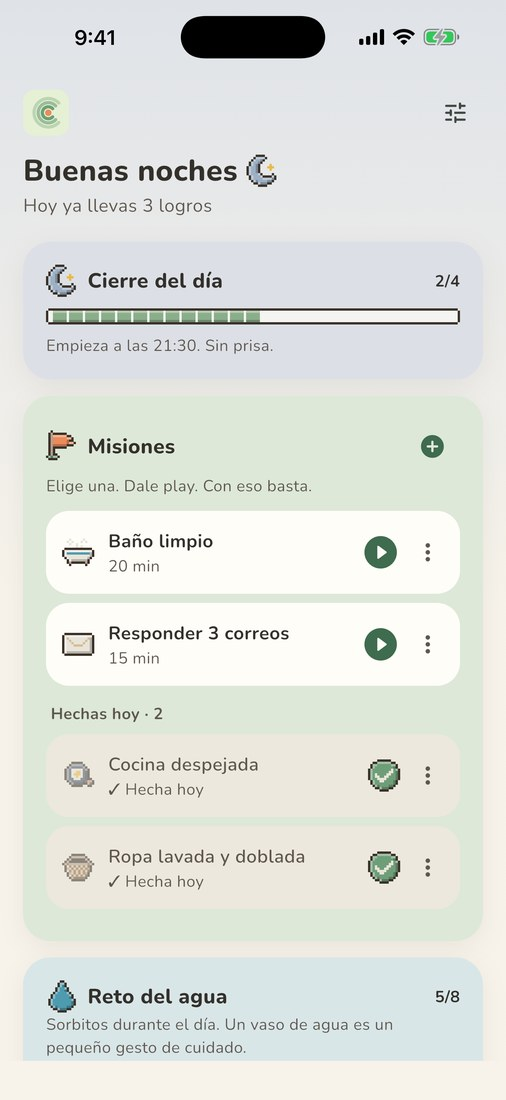
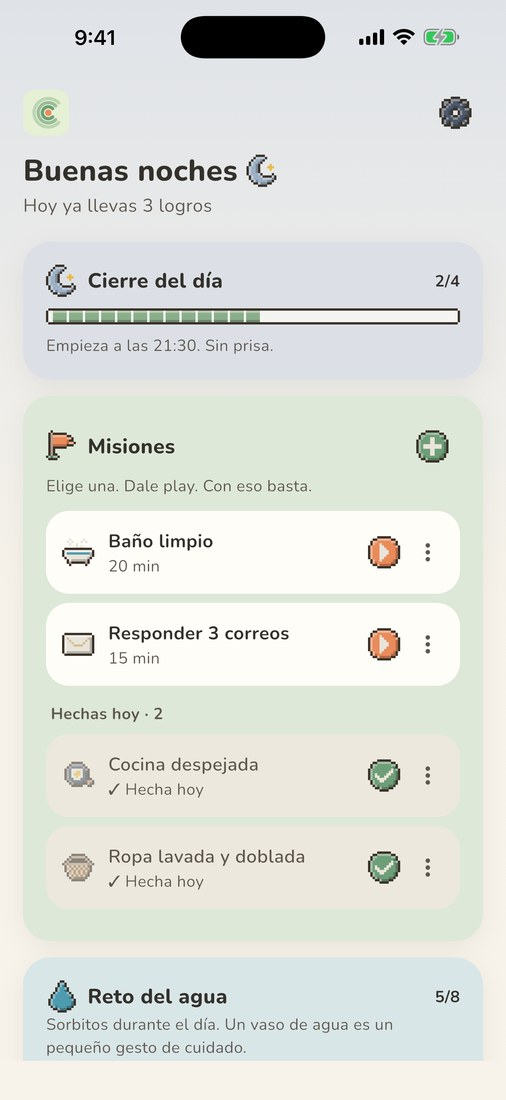
Add files via upload

diff --git a/covewithin/index.html b/covewithin/index.html
@@ -47,27 +47,27 @@
   <p class="sub" lang="es">Pensada con mentes con TDAH en cuenta: menos decisiones, más claridad y celebraciones pequeñas.</p>
   <p class="sub" lang="en">Designed with ADHD minds in mind: fewer decisions, more clarity and small celebrations.</p>
   <div class="grid">
-    <div class="feat"><span class="e">☀</span>
+    <div class="feat"><img class="e px" src="px-sun.png" alt="" width="56" height="56">
       <h3 lang="es">Mañana tranquila</h3><h3 lang="en">Gentle morning</h3>
       <p lang="es">Tus primeros pasos del día, a tu medida. Antes que todo, primero tú.</p>
       <p lang="en">Your first steps of the day, your way. Before everything else, you.</p></div>
-    <div class="feat"><span class="e">🎯</span>
+    <div class="feat"><img class="e px" src="px-flag.png" alt="" width="56" height="56">
       <h3 lang="es">Misiones con temporizador</h3><h3 lang="en">Quests with a timer</h3>
       <p lang="es">Elige una. Dale play. El reloj se ve en la pantalla bloqueada y en la Isla Dinámica.</p>
       <p lang="en">Pick one. Press play. The timer shows on your Lock Screen and Dynamic Island.</p></div>
-    <div class="feat"><span class="e">✅</span>
+    <div class="feat"><img class="e px" src="px-done.png" alt="" width="56" height="56">
       <h3 lang="es">Lo hecho, abajo</h3><h3 lang="en">Done drifts down</h3>
       <p lang="es">Lo pendiente queda arriba. Lo que terminas baja con un ✓, para ver claro qué sigue.</p>
       <p lang="en">What's left stays on top. What you finish moves down with a ✓, so the next step is clear.</p></div>
-    <div class="feat"><span class="e">💧</span>
+    <div class="feat"><img class="e px" src="px-drop.png" alt="" width="56" height="56">
       <h3 lang="es">Reto del agua</h3><h3 lang="en">Water quest</h3>
       <p lang="es">Vaso a vaso, con recordatorios suaves que puedes ajustar o apagar.</p>
       <p lang="en">Glass by glass, with gentle reminders you can adjust or turn off.</p></div>
-    <div class="feat"><span class="e">☕</span>
+    <div class="feat"><img class="e px" src="px-mug.png" alt="" width="56" height="56">
       <h3 lang="es">Rato para ti y movimiento</h3><h3 lang="en">Me time and movement</h3>
       <p lang="es">Un rato para lo que te gusta y unos días de movimiento a la semana.</p>
       <p lang="en">Time for what you enjoy, and a few days of movement each week.</p></div>
-    <div class="feat"><span class="e">🌙</span>
+    <div class="feat"><img class="e px" src="px-moon.png" alt="" width="56" height="56">
       <h3 lang="es">Cierre del día</h3><h3 lang="en">Wind-down</h3>
       <p lang="es">Un ritual corto para soltar el día, con modo oscuro que no encandila.</p>
       <p lang="en">A short ritual to let the day go, with a dark mode that's easy on the eyes.</p></div>
@@ -91,7 +91,7 @@
 
 <section class="band alt"><div class="wrap">
   <div class="privacy-card">
-    <span class="e" aria-hidden="true">🔒</span>
+    <img class="e px" src="px-lock.png" alt="" width="72" height="72">
     <div>
       <h2 style="font-size:26px;margin:0" lang="es">Todo se queda en tu iPhone</h2>
       <h2 style="font-size:26px;margin:0" lang="en">Everything stays on your iPhone</h2>
